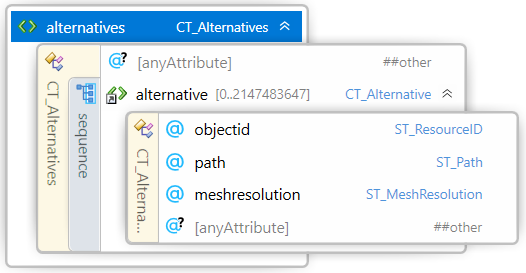
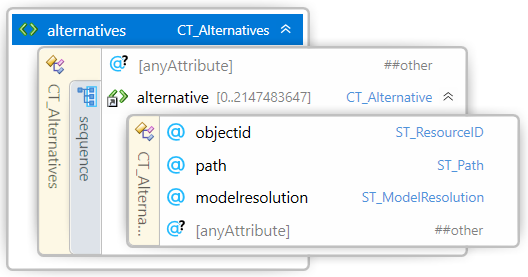
schema correction
schema correction and an additional comment for alternatives.

diff --git a/3MF Production Extension.md b/3MF Production Extension.md
@@ -224,7 +224,7 @@ Element **\<object>**
 | Name | Type | Use | Default | Annotation |
 | --- | --- | --- | --- | --- |
 | UUID | **ST\_UUID** | required | | A globally unique identifier for each \<object> in the 3MF package which allows producers and consumers to track object instances across 3MF packages. In the case that an \<object> is made up of \<components>, the UUID represents a unique ID for that collection of object references. |
-| meshresolution | **ST\_MeshResolution** |  | fullres  | Indicates the intended use of the object model when there are alternative representiations. |
+| modelresolution | **ST\_ModelResolution** |  | fullres  | Indicates the intended use of the object model when there are alternative representiations. |
 | @anyAttribute | | | | |
 
 Producers MUST include UUID's in all \<object> references to ensure that each object can be reliably tracked.
@@ -247,11 +247,13 @@ Element **\<alternative>**
 
 ![component.png](images/alternatives.png)
 
-The \<alternatives> element group provides a way to specify alternative representations of a given model. For example applications that do not require a high resolution of the representation migt use a lower resolution to perform their job.
+The \<alternatives> element group provides a way to specify alternative representations of a given model. For example, a 3MF with a low resolution object MAY be accepted by an application for previewing purposes but it MAY be rejected by a production printer.
 
 When this is used in conjunction with [the 3MF Secure Content Extension](https://github.com/3MFConsortium/spec_securecontent/blob/master/3MF%20Secure%20Content.md), some of those models might be protected with encryption and consumers might use an alterative representation were they have access.
 
-When several alternative representations, include the one in the root model, the consumer MAY decide which representation to choose from the ones that has rights. The producer MUST generate a 3MF file with no ambiguity for the consumer.
+When several alternative representations, include the one in the root model, the consumer MAY decide which representation to choose from the ones that has rights.
+
+The producer MUST generate a 3MF file with no ambiguity for the consumer.
 
 ### 4.2.2.1 Alternative
 
@@ -263,7 +265,7 @@ Element **\<alternative>**
 | --- | --- | --- | --- | --- |
 | objectid | **ST\_ResourceID** | required | | objectid indexes into the model file to the object with the corresponding id. |
 | path | **ST\_Path** | required | | A file path to the alternative model file being referenced. The path is an absolute path from the root of the 3MF container. |
-| meshresolution | **ST\_MeshResolution** |  | fullres  | Indicates the intended use the alternative object model. Valid options are: fullres, lowres, obfuscated. |
+| modelresolution | **ST\_ModelResolution** |  | fullres  | Indicates the intended use the alternative object model. Valid options are: fullres, lowres, obfuscated. |
 | @anyAttribute | | | | |
 
 The \<alternative> element specifies an alternative representations of a given model. The alternative MAY replace the object content representation, either the content under mesh or components.
@@ -323,7 +325,7 @@ See [the 3MF Core Specification glossary](https://github.com/3MFConsortium/spec_
 		<xs:attribute name="partnumber" type="xs:string"/>
 		<xs:attribute name="name" type="xs:string"/>
 		<xs:attribute name="UUID" type="ST_UUID" use="required"/>
-		<xs:attribute name="meshresolution" type="ST_MeshResolution" default="fullres"/>
+		<xs:attribute name="modelresolution" type="ST_ModelResolution" default="fullres"/>
 		<xs:anyAttribute namespace="##other" processContents="lax"/>
 	</xs:complexType>
 
@@ -337,7 +339,7 @@ See [the 3MF Core Specification glossary](https://github.com/3MFConsortium/spec_
 	<xs:complexType name="CT_Alternative">
 		<xs:attribute name="objectid" type="ST_ResourceID" use="required"/>
 		<xs:attribute name="path" type="ST_Path" use="required"/>
-		<xs:attribute name="meshresolution" type="ST_MeshResolution" use="required"/>
+		<xs:attribute name="modelresolution" type="ST_ModelResolution" use="required"/>
 		<xs:anyAttribute namespace="##other" processContents="lax"/>
 	</xs:complexType>
 	
@@ -356,7 +358,7 @@ See [the 3MF Core Specification glossary](https://github.com/3MFConsortium/spec_
 			<xs:pattern value="[a-f0-9]{8}-[a-f0-9]{4}-[a-f0-9]{4}-[a-f0-9]{4}-[a-f0-9]{12}"/>
 		</xs:restriction>
 	</xs:simpleType>
-	<xs:simpleType name="ST_MeshResolution">
+	<xs:simpleType name="ST_ModelResolution">
 		<xs:restriction base="xs:string">
 			<xs:enumeration value="fullres"/>
 			<xs:enumeration value="lowres"/>
